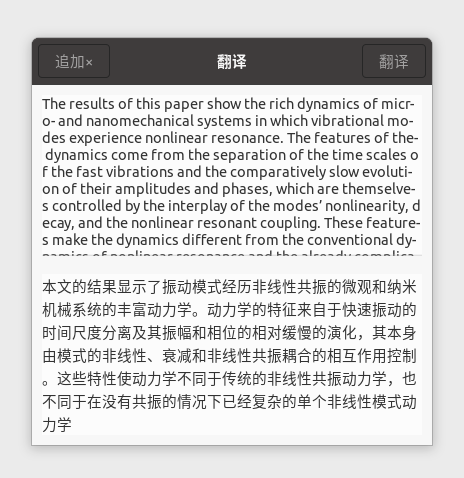
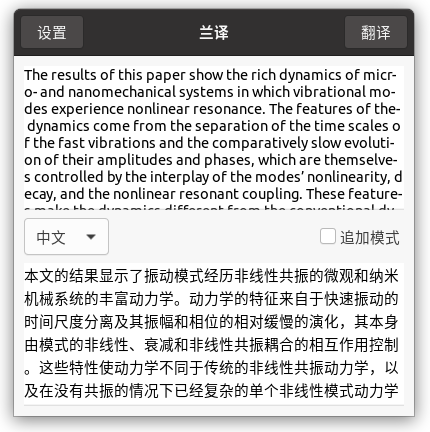
多语言翻译、窗口隐藏bugs、美化ui

diff --git a/ui_translate.py b/ui_translate.py
@@ -1,6 +1,7 @@
 #!/usr/bin/python3
 # coding: utf-8
 
+import time
 import gi
 from api import translate
 import config
@@ -15,23 +16,35 @@ VERSION = '0.0.1'
 
 class Translate(Gtk.Window):
 
-    add_old = False
+    n = 0
+
+    is_hide = False
 
     def __init__(self):
         Gtk.Window.__init__(self)
-        self._create_bar()
-        self._create_content()
+
         self.set_icon_from_file('./ui/icon.png')
-        self.connect("delete-event", Gtk.main_quit)
         self.set_keep_above(True)
 
-        self.show_all()
-        # Gtk.main()
+        self._create_bar()
+        self._create_content()
 
-        self.copy_translate()
+        self.connect("delete-event", self.close)
+
+        self.currency_combo.set_active(0)
+        self.currency_combo.set_entry_text_column(0)
+
+    def start(self):
+        self.is_hide = False
+
+        self.show_all()
+        print("2活着么？ " + str(self.is_hide))
 
     def close(self, a=None, b=None):
+        self.is_hide = True
+        print("关闭")
         self.hide()
+        print("3活着么？ " + str(self.is_hide))
 
     def _create_bar(self):
 
@@ -42,20 +55,11 @@ class Translate(Gtk.Window):
         self.hb.props.title = "兰译"
         self.set_titlebar(self.hb)
 
-        btn_pin = Gtk.Button.new_with_label("追加×")
-        # icon = Gio.ThemedIcon(name="view-pin-symbolic")
-        # image = Gtk.Image.new_from_gicon(icon, Gtk.IconSize.BUTTON)
-        # image = Gtk.Image.new_from_file("./ui/pin2.svg")
-        # btn_pin.add(image)
-        btn_pin.connect("clicked", self.set_add_old)
-        self.hb.pack_start(btn_pin)
+        self.btn_setting = Gtk.Button.new_with_label("设置")
+        self.hb.pack_start(self.btn_setting)
 
         btn_update = Gtk.Button.new_with_label("翻译")
-        # icon = Gio.ThemedIcon(name="system-reboot-symbolic")
-        # image = Gtk.Image.new_from_gicon(icon, Gtk.IconSize.BUTTON)
-        # btn_update.add(image)
         btn_update.connect("clicked", self.update_translate_view)
-        # 放置于HeaderBar右边
         self.hb.pack_end(btn_update)
 
     def _create_content(self):
@@ -63,7 +67,7 @@ class Translate(Gtk.Window):
         self.set_border_width(10)
         self.set_default_size(400, 360)
 
-        self.box = Gtk.Box(spacing=18, orientation=Gtk.Orientation.VERTICAL)
+        self.box = Gtk.Box(spacing=8, orientation=Gtk.Orientation.VERTICAL)
         self.add(self.box)
 
         self.scroll_from = Gtk.ScrolledWindow()
@@ -71,6 +75,8 @@ class Translate(Gtk.Window):
         self.text_view_from.set_wrap_mode(wrap_mode=Gtk.WrapMode.CHAR)
         self.scroll_from.add(self.text_view_from)
         self.box.pack_start(self.scroll_from, True, True, 0)
+
+        self._create_language_menu()
 
         self.scroll_to = Gtk.ScrolledWindow()
         self.text_view_to = Gtk.TextView()
@@ -83,12 +89,40 @@ class Translate(Gtk.Window):
         # 复制以后才回调，比如快捷键复制、右键复制
         self.getClipboard().connect("owner-change", self.copy_auto_translate)
 
+    def _create_language_menu(self):
+
+        self.box_center = Gtk.Box(spacing=8,
+                                  orientation=Gtk.Orientation.HORIZONTAL)
+
+        self.currency_combo = Gtk.ComboBoxText()
+        self.currency_combo.connect("changed", self.on_currency_combo_changed)
+        for currency in config.translate_to_language_zh:
+            self.currency_combo.append_text(currency)
+
+        self.box_center.pack_start(self.currency_combo, False, False, 0)
+
+        self.spinner = Gtk.Spinner()
+        self.box_center.pack_start(self.spinner, False, True, 0)
+
+        self.cbtn_add_old = Gtk.CheckButton.new_with_label("追加模式")
+        self.box_center.pack_end(self.cbtn_add_old, False, True, 0)
+
+        self.box.pack_start(self.box_center, False, True, 0)
+
+    def on_currency_combo_changed(self, combo):
+        text = combo.get_active_text()
+        if text is None:
+            text = config.translate_to_language_zh[0]
+        translate.set_to_language(text)
+        self.copy_translate()
+        return text
+
     def copy_auto_translate(self, cb, event=None):
         s_from = ""
+        self.spinner.start()
 
         image_pixbuf = cb.wait_for_image()
         if image_pixbuf is not None:
-            self.set_title("识别中……")
             img_path = "data/copy"
             image_pixbuf.savev(img_path, "png", "", "")
             s_from = translate.ocr(open(img_path, 'rb').read())
@@ -112,37 +146,27 @@ class Translate(Gtk.Window):
 
     def translate_by_s(self, s_from):
 
+        self.n += 1
+
         textbuffer_from = self.text_view_from.get_buffer()
         textbuffer_to = self.text_view_to.get_buffer()
-        self.set_title("翻译中……")
 
         if(s_from is None):
             s_from = "复制即可翻译"
             s_to = "Alt Q 快捷键、或状态栏图标可隐藏"
         else:
-            s_from, s_to = translate.text(s_from.strip(), add_old=self.add_old)
+            s_from, s_to = translate.text(
+                s_from.strip(), add_old=self.cbtn_add_old.get_active())
 
         textbuffer_from.set_text(s_from.strip())
         textbuffer_to.set_text(s_to.strip())
+        self.spinner.stop()
 
     def getClipboard(self):
         if(config.translate_select):
             return Gtk.Clipboard.get(Gdk.SELECTION_PRIMARY)
         else:
             return Gtk.Clipboard.get(Gdk.SELECTION_CLIPBOARD)
-
-    def set_title(self, s):
-        print(s)
-        print(self)
-        print(self.text_view_from)
-        self.text_view_from.get_buffer().set_text(s)
-
-    def set_add_old(self, view=None):
-        self.add_old = not self.add_old
-        if(self.add_old):
-            view.set_label("追加√")
-        else:
-            view.set_label("追加×")
 
 
 # win = Translate()

diff --git a/ldr-translate.py b/ldr-translate.py
@@ -13,7 +13,7 @@ import gi
 import logging
 import os
 from argparse import ArgumentParser
-from main import Translate, VERSION
+from ui_translate import Translate, VERSION
 
 gi.require_version('AppIndicator3', '0.1')
 gi.require_version('Keybinder', '3.0')
@@ -23,7 +23,7 @@ from gi.repository import Gtk, Keybinder
 
 
 class LdrTranlate(object):
-    hide = False
+    hide = True
 
     def _create_menu(self):
         """Creates the main menu and shows it."""
@@ -50,7 +50,7 @@ class LdrTranlate(object):
         # }}} menu done!
 
     def __init__(self):
-        self._translate_win = None
+        self.translate_win = None
         self._help_dialog = None
 
         self.ind = appindicator.Indicator.new(
@@ -75,40 +75,27 @@ class LdrTranlate(object):
             pass
 
     def _on_help(self, event=None, data=None):
-        """Raise a dialog with info about the app."""
         if self._help_dialog is not None:
             self._help_dialog.present()
             return
 
-        self._help_dialog = Gtk.MessageDialog(
-            None, Gtk.DialogFlags.DESTROY_WITH_PARENT, Gtk.MessageType.INFO,
-            Gtk.ButtonsType.OK, None)
+        s = "1. 软件安装位置：~/.local/share/ldr-translate\n2. 终端输入 ldr-translate 即可运行\n3. 注销并重新登录以后，应用程序中应包含‘兰译’\n4. 复制即可自动翻译、Alt Q快捷键自动隐藏/显示主窗口\n5. 系统截图并复制到剪贴板，自动OCR识别并翻译\n6. 更多教程见：https://github.com/yuhlzu/ldr-translate"
+
+        self._help_dialog = Gtk.MessageDialog(None, Gtk.DialogFlags.MODAL,
+                                              Gtk.MessageType.INFO,
+                                              Gtk.ButtonsType.OK, s)
 
         self._help_dialog.set_title("帮助")
-        self._help_dialog.set_markup("帮助文档，暂时省略")
         self._help_dialog.run()
         self._help_dialog.destroy()
         self._help_dialog = None
 
     def on_translate_activated(self, event=None):
-        """Raises the preferences dialog. If it's already open, it's
-        focused"""
-        print("********** " + str(self._translate_win))
-        if self._translate_win is not None:
-            print("显示")
-            self.hide = not self.hide
-
-            if(self.hide):
-                self._translate_win.close()
-                print("隐藏")
-                return
-            else:
-                self._translate_win.present()
+        if (self.translate_win is None or self.translate_win.is_hide):
+            self.translate_win = Translate()
+            self.translate_win.start()
         else:
-            print("创建")
-            self._translate_win = Translate()
-
-        self.hide = False
+            self.translate_win.close()
 
 
 if __name__ == "__main__":

diff --git a/api/translate.py b/api/translate.py
@@ -1,23 +1,23 @@
+import os
 from api.server import baidu
 import config
 import time
 
 last_s = ""
-last_s2 = ""
+last_s2 = "空白"
 last_time = 0
 
 path_next_s = "s_next"
 
 # 整合一下，方便接入其他api接口
 
-def text(s_from,
-         fromLang="auto",
-         toLang=config.translate_to_language,
-         type="baidu",
-         add_old=True):
-    global last_s, last_s2, last_time
 
-    if (last_s == s_from):
+def text(s_from, fromLang="auto", type="baidu", add_old=True):
+    global last_s, last_s2, last_time
+    toLang, changeLang = get_to_language()
+
+    # 文字和上次一样，并且被翻译的语言没有修改，就不翻译了
+    if (last_s == s_from and not changeLang):
         print("重复：    %s" % (s_from))
         return last_s, last_s2
     span = config.translate_span * 1.2 - (time.time() - last_time)
@@ -44,3 +44,32 @@ def ocr(img, type="baidu"):
         s = baidu.ocr(img)
 
     return s
+
+
+to_language_zh = ""
+last_to_language_zh = ""
+
+
+def set_to_language(to_lg):
+    global to_language_zh
+    to_language_zh = to_lg
+    with open("data/toLang", "w") as file:
+        file.write(to_lg)
+
+
+def get_to_language():
+    global to_language_zh, last_to_language_zh
+
+    change_language = last_to_language_zh != to_language_zh
+
+    file_path = "data/toLang"
+    if (len(to_language_zh) == 0):
+        if (os.path.exists(file_path)):
+            with open(file_path, "r") as file:
+                to_language_zh = file.read()
+    if(len(to_language_zh) == 0):
+        to_language_zh = config.translate_to_language_zh[0]
+    print(last_to_language_zh + "==" + to_language_zh)
+    last_to_language_zh = to_language_zh
+
+    return to_language_zh, change_language

diff --git a/api/server/baidu.py b/api/server/baidu.py
@@ -8,13 +8,28 @@ import config
 import time
 
 
-def translate(s, fromLang="auto", toLang='zh'):
+translate_to_language_baidu = [
+    "zh",
+    "wyw",
+    "en",
+    "jp",
+    "kor",
+    "de",
+    "fra",
+]
+
+
+def translate(s, fromLang="auto", toLang=config.translate_to_language_zh[0]):
 
     appid = config.baidu_appid  # 填写你的appid
     secretKey = config.baidu_secretKey  # 填写你的密钥
 
     # fromLang = 'auto'   # 原文语种
     # toLang = 'zh'   # 译文语种
+    i = config.translate_to_language_zh.index(toLang)
+    print(toLang + " == " + str(i))
+    toLang = translate_to_language_baidu[i]
+
     salt = random.randint(32768, 65536)
     sign = appid + s + str(salt) + secretKey
     sign = hashlib.md5(sign.encode()).hexdigest()

diff --git a/config.py b/config.py
@@ -3,12 +3,10 @@
 baidu_appid = '20211109000995303'
 baidu_secretKey = 'qLFDFx7fLRrioaa6CTnk'
 
-
 # OCR图片识别并翻译，按照下面的教程修改为自己的，一个人一月1000次
 # https://cloud.baidu.com/doc/OCR/s/dk3iqnq51
 baidu_ocr_api_key = "S1NHCzzzBhL2TUMx5iGpOSUu"
 baidu_ocr_secret_key = "709INHX6GCLsAXXZPLhKGVMmra7bEwGl"
-
 
 # 翻译api最小请求间隔
 translate_span = 1.0
@@ -18,3 +16,13 @@ translate_select = False
 
 # 百度接口，默认翻译为中文
 translate_to_language = 'zh'
+
+translate_to_language_zh = [
+    "中文",
+    "文言文",
+    "英语",
+    "日语",
+    "韩语",
+    "德语",
+    "法语",
+]

diff --git a/README.md b/README.md
@@ -10,10 +10,14 @@
 - 可选追加复制
 - 可修改复制内容，重新翻译
 - 截图自动识别、并翻译
-- （待完善）多语言互译支持，目前仅支持其他语言翻译为中文
-- （待完善）支持多平台api接口，目前仅支持百度api，足够了
+- 多语言互译支持，自动识别当前语言
+- （待完善）支持多平台api接口，目前仅支持百度api，足够了……
+- （待完善）设置中自定义接口账号
+- 页面随着系统主题（gnome）自动变化
 
-![运行](images/lt.png)
+|系统默认主题 yaru|第三方主题layan|第三方主题kimi|
+|:-:|:-:|:-:|
+![主题2](images/lt.png)|![主题1](images/lt-layan.png)|![主题1](images/lt-kimi.png)
 
 ## 账号
 
